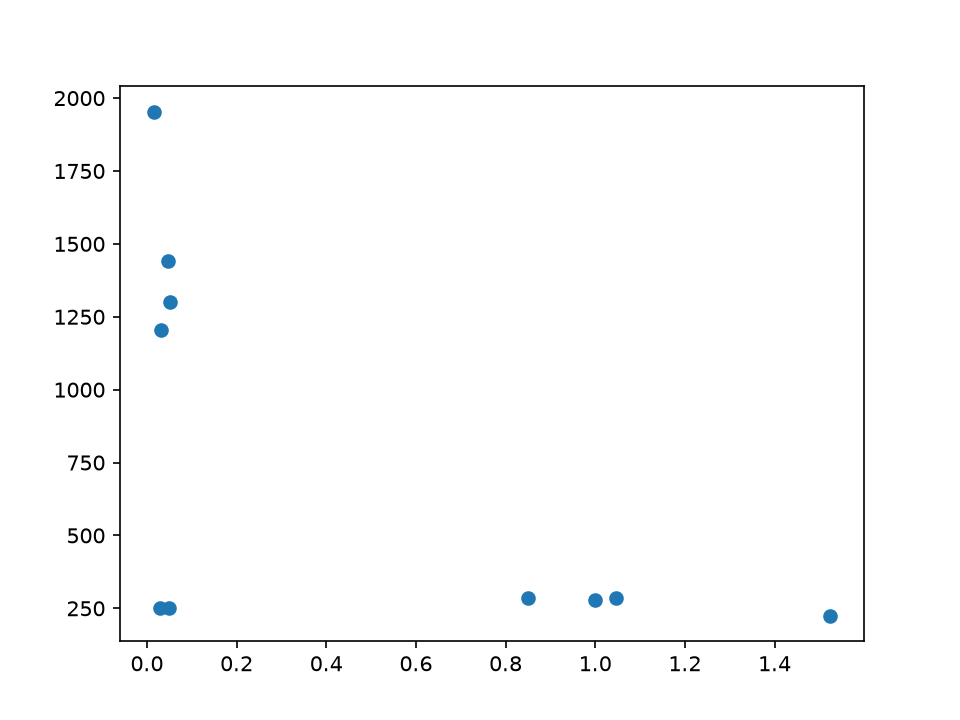
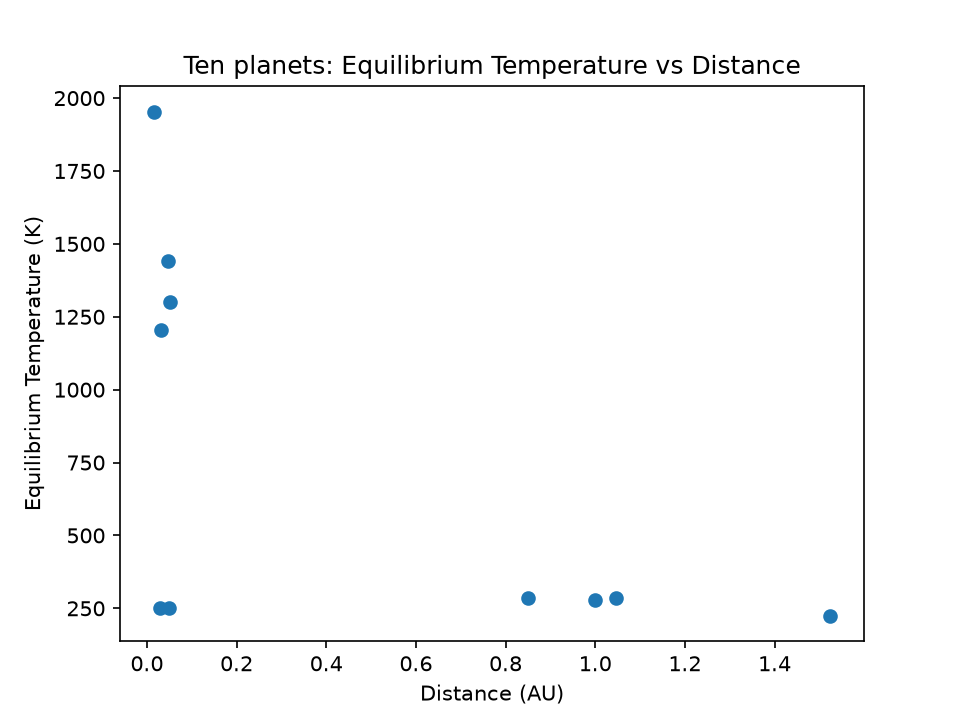
before the agent

diff --git a/module-4/planets_plot.py b/module-4/planets_plot.py
@@ -21,6 +21,12 @@ def t_eq(L, d):
 if __name__ == "__main__":
     T = t_eq(lum * L_SUN, dist * AU)
     fig, ax = plt.subplots()
+
+    #step 1 x axis is distance in AU, y axis is equilibrium temperature in K
+    ax.set_xlabel("Distance (AU)") 
+    ax.set_ylabel("Equilibrium Temperature (K)")
+    plt.title("Ten planets: Equilibrium Temperature vs Distance") #Title
+
     ax.scatter(dist, T)
     fig.savefig("module-4/planets.png", dpi=150)
     print("wrote module-4/planets.png")
